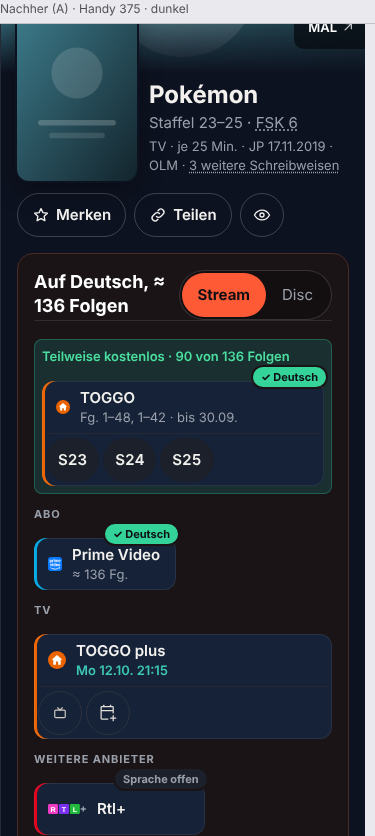
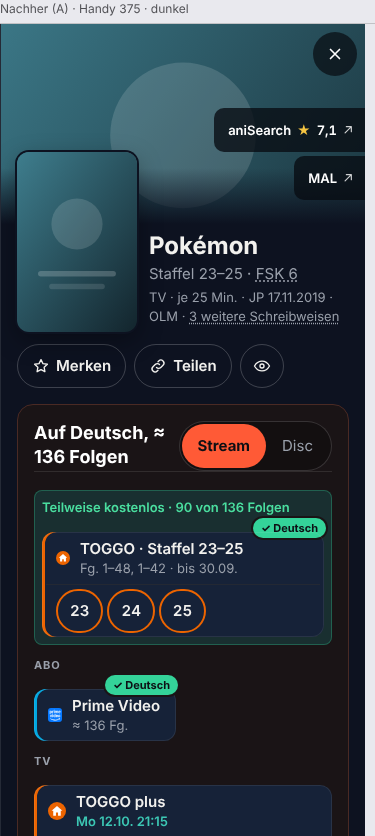
feat(panel): TOGGO-Staffelknöpfe – je Staffel ein Absprung bei gebündelten Titeln (#4889)
* feat(buehne): TOGGO-Mockup – Kostenlos, „TOGGO · Staffel 1–5“, Zahlenknöpfe mit Rahmen in Anbieterfarbe

Fall pokemon-horizonte neu eingefroren: TOGGO war dort noch als Kauf geführt (Datenstand 27.10.), heute kostenlos.

* feat(panel): TOGGO-Staffelknöpfe – je Staffel ein Absprung bei gebündelten Titeln

Trägt tg der Folgenliste mindestens zwei verschiedene TOGGO-Adressen, ersetzt das Panel die TOGGO-Pille durch eine Fläche „TOGGO · Staffel 1–5“ mit je einem Zahlenknopf (mindestens 44 px, Rahmen in der Anbieterfarbe, neuer Tab). Die Pille bleibt in ihrer Zugangsgruppe. Nachbau-Teile des Mockups toggo-pillen entfallen; Variante A zeigt die echte Komponente (F158).

* fix(panel): TOGGO-Staffelknöpfe nachgebessert – Innenabstand, Übersetzer ohne Cast, Test auf rel und Anbieterfarbe

Claude-Session: https://claude.ai/code/session_01Bx77zqb8a4JAkqo7qPTJPt

* fix(pruefung): TOGGO-Staffelknopf-Adresse in ERLAUBT von check-beleg-href

---------

diff --git a/tools/buehne-toggo-pillen.test.ts b/tools/buehne-toggo-pillen.test.ts
@@ -1,11 +1,15 @@
 /**
- * Test der Absprünge des Mockups `toggo-pillen` (`web/buehne/mockups/toggo-pillen-liste.ts`) an den echten, eingefrorenen Fällen der Bühne:
- * Pokémon (Staffel 1–5) → fünf Seiten, Pokémon Reisen (Staffel 23–25) → drei; führen alle Staffeln auf dieselbe Adresse, bleibt es bei einer Pille.
+ * Test der Staffelknöpfe an TOGGO-Pillen (`web/src/lib/staffel-ziele.ts`, `web/src/components/detail/staffel-knoepfe.tsx`) an den echten, eingefrorenen Fällen der Bühne:
+ * Pokémon (Staffel 1–5) → fünf Knöpfe, Pokémon Reisen (Staffel 23–25) → drei; führen alle Staffeln auf dieselbe Adresse, bleibt es bei einer Pille.
  */
 import assert from 'node:assert/strict'
 import { readFileSync } from 'node:fs'
 import { fileURLToPath } from 'node:url'
-import { staffelZiele } from '../web/buehne/mockups/toggo-pillen-liste.ts'
+import { createElement } from 'react'
+import { renderToStaticMarkup } from 'react-dom/server'
+import { staffelSpanne, staffelZiele } from '../web/src/lib/staffel-ziele.ts'
+import { mitStaffelKnoepfen } from '../web/src/components/detail/staffel-knoepfe.tsx'
+import { Pille } from '../web/src/components/detail/pille.tsx'
 import { mockupMit } from '../web/buehne/register.ts'
 
 const datei = fileURLToPath(new URL('../web/buehne/faelle.json', import.meta.url))
@@ -13,9 +17,12 @@ const faelle = JSON.parse(readFileSync(datei, 'utf8')).faelle as Record<string, 
 const folgen = faelle['pokemon-horizonte']!.folgen
 
 const sammel = staffelZiele(folgen['483']!.tg)!
-assert.deepEqual(sammel.map((z) => z.label), ['S1', 'S2', 'S3', 'S4', 'S5'])
+assert.deepEqual(sammel.map((z) => z.nummer), ['1', '2', '3', '4', '5'])
 assert.deepEqual(sammel.map((z) => z.url.split('/').pop()), ['pokemon-indigo-liga', 'pokemon-orange-liga', 'pokemon-die-johto-reisen', 'pokemon-die-johto-liga-champions', 'pokemon-master-quest'])
-assert.deepEqual(staffelZiele(folgen['10852']!.tg)!.map((z) => z.label), ['S23', 'S24', 'S25'])
+assert.deepEqual(staffelSpanne(sammel), { von: 1, bis: 5 })
+const reisen = staffelZiele(folgen['10852']!.tg)!
+assert.deepEqual(reisen.map((z) => z.nummer), ['23', '24', '25'])
+assert.deepEqual(staffelSpanne(reisen), { von: 23, bis: 25 })
 
 // Gegenfall: alle Staffeln führen auf dieselbe Adresse (wie bei Netflix: ein Titel, eine Adresse) → nicht aufteilen; ebenso eine Staffel und keine Angabe.
 const eine = 'https://www.toggo.de/pokemon/serien/pokemon-horizonte-die-serie-vse292'
@@ -26,11 +33,34 @@ assert.equal(staffelZiele(folgen['14838']!.tg), undefined)
 
 // Teilen sich Staffeln eine Adresse, steht eine Beschriftung für beide; Reihenfolge nach Staffelnummer auch bei umgekehrter Eingabe.
 const gemischt = staffelZiele([[16, 'https://x.invalid/b'], [15, 'https://x.invalid/a'], [16, 'https://x.invalid/a']])!
-assert.deepEqual(gemischt.map((z) => [z.label, z.url]), [['S15–16', 'https://x.invalid/a'], ['S16', 'https://x.invalid/b']])
+assert.deepEqual(gemischt.map((z) => [z.nummer, z.url]), [['15–16', 'https://x.invalid/a'], ['16', 'https://x.invalid/b']])
+assert.deepEqual(staffelSpanne(gemischt), { von: 15, bis: 16 })
 
-// Das Mockup ist angemeldet, zwei Varianten, beide Fälle gibt es.
+// Die Pille: nur die TOGGO-Pille wird zur Knopffläche (gleicher key), alles andere bleibt dieselbe Instanz.
+const toggo = createElement(Pille, { key: 'sw-TOGGO-https://x', name: 'TOGGO', farbe: '#ff0066', url: 'https://www.toggo.de/pokemon' })
+const netflix = createElement(Pille, { key: 'sw-Netflix-https://n', name: 'Netflix', url: 'https://www.netflix.com/x' })
+assert.equal(mitStaffelKnoepfen([toggo, netflix], undefined)[0], toggo)
+const neu = mitStaffelKnoepfen([toggo, netflix], sammel)
+assert.equal(neu[1], netflix)
+assert.equal((neu[0] as { key: string }).key, 'sw-TOGGO-https://x')
+const html = renderToStaticMarkup(createElement('div', null, neu))
+assert.match(html, /TOGGO · Staffel 1–5/)
+assert.equal((html.match(/min-h-11/g) ?? []).length, 5)
+assert.match(html, /aria-label="TOGGO, Staffel 3"/)
+assert.match(html, /href="https:\/\/www\.toggo\.de\/pokemon\/serien\/pokemon-die-johto-reisen"[^>]*target="_blank"/)
+assert.doesNotMatch(html, /href="https:\/\/www\.toggo\.de\/pokemon"/)
+// Jeder der fünf Knöpfe: Fremdlink ohne Referrer/Opener, Rahmen in der Anbieterfarbe (der Pille).
+const knoepfe = html.match(/<a [^>]*min-h-11[^>]*>/g) ?? []
+assert.equal(knoepfe.length, 5)
+for (const k of knoepfe) {
+  assert.match(k, /rel="noreferrer noopener"/)
+  assert.match(k, /style="[^"]*border-color:\s*#ff0066/)
+}
+assert.match(renderToStaticMarkup(createElement('div', null, mitStaffelKnoepfen([toggo], gemischt))), /aria-label="TOGGO, Staffel 15–16"/)
+
+// Das Mockup ist angemeldet, eine Variante (A, entschieden F158), beide Fälle gibt es.
 await import('../web/buehne/mockups/toggo-pillen.tsx')
 const m = mockupMit('toggo-pillen')!
-assert.deepEqual(Object.keys(m.varianten), ['A', 'B'])
+assert.deepEqual(Object.keys(m.varianten), ['A'])
 for (const f of m.faelle) assert.ok(f === 'pokemon-sammeltitel' || f === 'pokemon-reisen')
 console.log('buehne-toggo-pillen: ok')

diff --git a/web/buehne/mockups/toggo-pillen.tsx b/web/buehne/mockups/toggo-pillen.tsx
@@ -1,20 +1,15 @@
 import { mockup } from '../register.ts'
-import { KastenMitTitel, toggoKastenPillen } from './toggo-pillen-teile.tsx'
 
-/** Beide Varianten: der Kasten trägt die Titelkennung, die TOGGO-Pille wird je Staffelseite aufgeteilt (nur bei mindestens zwei verschiedenen Adressen). */
+/** Entschieden (F158, 24.11.2026): Variante A. Seit dem Bau ist sie die echte Komponente (`staffel-knoepfe.tsx`), das Mockup zeigt sie ohne Ersatz und dient als Bildvergleich. */
 mockup({
   name: 'toggo-pillen',
-  titel: 'Gebündelte Staffeln: eine TOGGO-Pille, ein Absprung je Staffel',
+  titel: 'Gebündelte Staffeln: eine TOGGO-Fläche, ein Absprung je Staffel',
   ausschnitt: 'detailpanel',
   faelle: ['pokemon-sammeltitel', 'pokemon-reisen'],
   varianten: {
     A: {
-      ersatz: { AntwortKasten: KastenMitTitel, KastenPillen: toggoKastenPillen('A') },
-      notiz: 'Eine TOGGO-Pille bleibt, überschrieben „TOGGO · Staffel 1–5“ (der Bereich, den dieser Anbieter führt), darunter in ihrer Fläche je Staffel ein Knopf nur mit der Zahl (1 bis 5, Rahmen in der Anbieterfarbe, mindestens 44 px) mit der Seite dieser Staffel bei TOGGO. Der Sprachhinweis steht einmal. Netflix, Prime Video und RTL+ führen mit einer Adresse auf den ganzen Titel: eine Pille wie heute. Pokémon (Staffel 1–5): fünf Knöpfe; Pokémon Reisen (Staffel 23–25): drei. Die Adressen sind die der Folgenliste (`tg`), keine ergänzt.',
-    },
-    B: {
-      ersatz: { AntwortKasten: KastenMitTitel, KastenPillen: toggoKastenPillen('B') },
-      notiz: 'Je Staffel eine eigene TOGGO-Pille („Staffel 1“ …), die direkt auf die Seite der Staffel führt; der Sprachhinweis nur an der ersten; die Folgenangabe der einen Pille („Fg. 1–48 · bis 30.09.“) entfällt, an ihrer Stelle steht die Staffel. Mehr Fläche (am Handy zwei Pillen je Zeile), dafür ein Tipp ohne Umweg. Netflix, Prime Video und RTL+ bleiben eine Pille, weil alle Staffeln auf dieselbe Adresse führen.',
+      ersatz: {},
+      notiz: 'In der Zugangsgruppe „Kostenlos“ steht eine TOGGO-Fläche „TOGGO · Staffel 1–5“, darin je Staffel ein Knopf mit der Zahl (mindestens 44 px, Rahmen in der Anbieterfarbe) und der Seite dieser Staffel bei TOGGO. Netflix, Prime Video und RTL+ führen mit einer Adresse auf den ganzen Titel: eine Pille wie bisher. Pokémon (Staffel 1–5): fünf Knöpfe; Pokémon Reisen (Staffel 23–25): drei. Die Adressen sind die der Folgenliste (`tg`), keine ergänzt.',
     },
   },
 })

diff --git a/web/src/components/detail/staffel-knoepfe.tsx b/web/src/components/detail/staffel-knoepfe.tsx
@@ -1,0 +1,41 @@
+import { isValidElement, type ComponentProps, type ReactElement, type ReactNode } from 'react'
+import { staffelSpanne, type StaffelZiel } from '../../lib/staffel-ziele.ts'
+import { Pille } from './pille.tsx'
+import { useLang, type Translate } from '../../lib/i18n.tsx'
+
+type PilleEigenschaften = ComponentProps<typeof Pille>
+
+const KNOPF = 'inline-flex min-h-11 min-w-11 items-center justify-center rounded-full border-2 px-3 text-t3 font-semibold tabular-nums text-ak-text transition hover:bg-ak-pille-hover'
+
+const staffelText = (t: Translate, n: string | number) => t('detail.staffelNummer', { n })
+
+/** Eine TOGGO-Fläche statt einer Pille: Überschrift „TOGGO · Staffel 1–5“, darin je Adresse ein Zahlenknopf (mindestens 44 px, Rahmen in der Anbieterfarbe). */
+export function PilleMitKnoepfen({ eig, ziele }: { eig: PilleEigenschaften; ziele: StaffelZiel[] }) {
+  const { t } = useLang()
+  const { von, bis } = staffelSpanne(ziele)
+  const bereich = von === bis ? staffelText(t, von) : t('detail.staffelBereich', { von, bis })
+  return (
+    <Pille
+      {...eig}
+      name={`${String(eig.name)} · ${bereich}`}
+      url={undefined}
+      fuss={
+        <div role="group" aria-label={`${String(eig.name)}, ${bereich}`} className="flex flex-wrap gap-1 pl-2.5">
+          {ziele.map((z) => (
+            <a key={z.url} href={z.url} target="_blank" rel="noreferrer noopener" aria-label={`${String(eig.name)}, ${staffelText(t, z.nummer)}`} className={KNOPF} style={{ borderColor: eig.farbe }}>
+              {z.nummer}
+            </a>
+          ))}
+        </div>
+      }
+    />
+  )
+}
+
+const istToggoWeg = (n: ReactNode): n is ReactElement<PilleEigenschaften> => isValidElement(n) && String(n.key).startsWith('sw-TOGGO-')
+
+/** Ersetzt die TOGGO-Pille der Wege durch die Knopffläche (mit demselben `key`: die Zugangsgruppe hängt daran); ohne Staffelseiten bleibt alles wie es ist. */
+export function mitStaffelKnoepfen(pillen: ReactNode[], ziele: StaffelZiel[] | undefined): ReactNode[] {
+  if (!ziele) return pillen
+  return pillen.map((n) => (istToggoWeg(n) ? <PilleMitKnoepfen key={n.key} eig={n.props} ziele={ziele} /> : n))
+}

diff --git a/web/src/components/detail/folgen-bereich.tsx b/web/src/components/detail/folgen-bereich.tsx
@@ -7,6 +7,7 @@ import { folgeIstDeutsch } from './stream-bereiche.ts'
 import { SERIENBELEG_HINWEIS, serienbelegOhneFolgenbeleg } from '@shared/folgen-flagge.ts'
 import { staffelAbschnitte, staffelZeile, type StaffelZeile } from './folgen-staffeln.ts'
 import type { FolgenZaehlung } from './antwort-regeln.ts'
+import { staffelZiele, type StaffelZiel } from '../../lib/staffel-ziele.ts'
 
 /**
  * **Die Folgenliste im Antwortkasten** (Daniel, 04.10.2026): Ein Pfeil klappt sie auf, der Kasten wächst mit,
@@ -26,6 +27,8 @@ interface Liste {
   h?: [number, string][]
   /** Deutsche Staffelgrenzen (`folgen-staffeln.ts`): Reiter je Staffel statt Paketen. */
   s?: StaffelZeile[]
+  /** TOGGO-Seite je Staffel: `[Staffelnummer, Adresse]`. */
+  tg?: [number, string][]
 }
 
 const PAKET = 50
@@ -65,6 +68,23 @@ export function useStaffelGrenzen(titleId: number): StaffelZeile[] | undefined {
     }
   }, [titleId])
   return s
+}
+
+/** Die TOGGO-Seiten je Staffel (`tg` der Folgenliste), solange sie verschieden sind; ohne Liste oder bei einer Adresse nichts. */
+export function useStaffelZiele(titleId: number): StaffelZiel[] | undefined {
+  const [ziele, setZiele] = useState<StaffelZiel[]>()
+  useEffect(() => {
+    setZiele(undefined)
+    let aktiv = true
+    void holeVerzeichnis()
+      .then((v) => (v.has(titleId) ? holeListe(titleId) : null))
+      .then((l) => aktiv && setZiele(l ? staffelZiele(l.tg) : undefined))
+      .catch(() => aktiv && setZiele(undefined))
+    return () => {
+      aktiv = false
+    }
+  }, [titleId])
+  return ziele
 }
 
 let zaehlungen: Promise<Record<string, FolgenZaehlung>> | undefined

diff --git a/web/src/components/detail/antwort-kasten-zustand.tsx b/web/src/components/detail/antwort-kasten-zustand.tsx
@@ -1,6 +1,7 @@
 import { type ReactNode, useState } from 'react'
 import { ankuendigungOhneTermin } from '@shared/ankuendigung.ts'
-import { useKopfZahlen } from './folgen-bereich.tsx'
+import { useKopfZahlen, useStaffelZiele } from './folgen-bereich.tsx'
+import { mitStaffelKnoepfen } from './staffel-knoepfe.tsx'
 import { gruppeVon as gruppeVonPille, sichtbareStreamPillen } from './stream-pillen.ts'
 import { erstausgabeAlsNeuigkeit } from './antwort-regeln.ts'
 import { abstandImSatz } from '../../lib/abstand.ts'
@@ -24,6 +25,7 @@ export function useKastenZustand(p: Required<Pick<AntwortKastenProps, 'stream' |
     kostet keine Höhe mehr.
   */
   const [zeigeDisc, setZeigeDisc] = useState(discZuerst); const { folgenZahl, staffeln } = useKopfZahlen(title.id)
+  const staffelZiele = useStaffelZiele(title.id)
   /*
     **Wo noch nichts erschienen ist, gibt es nichts zu sehen.**
 
@@ -41,7 +43,7 @@ export function useKastenZustand(p: Required<Pick<AntwortKastenProps, 'stream' |
   const beides = streamPillen.length > 0 && disc.length > 0
   /* Der Umschalter zeigt nur Seiten mit Pillen; eine einzelne bleibt als Etikett (Kaufpille = „Disc"). */
   const aktivDisc = beides ? zeigeDisc : streamPillen.length === 0
-  const pillen = aktivDisc ? disc : streamPillen
+  const pillen = aktivDisc ? disc : mitStaffelKnoepfen(streamPillen, staffelZiele)
   const T = t as unknown as Uebersetzer
   /*
     **Kostenlos ist ein eigener Bereich** (Daniel, 19.09.2026: „trenn die bereiche, sodass es

diff --git a/web/src/lib/staffel-ziele.ts b/web/src/lib/staffel-ziele.ts
@@ -1,0 +1,28 @@
+/** Eine Staffelseite bei TOGGO: Beschriftung (`nummer`: „3“ oder „15–16“), die Staffeln dahinter und die Adresse aus `tg` der Folgenliste. */
+export interface StaffelZiel {
+  nummer: string
+  staffeln: number[]
+  url: string
+}
+
+/**
+ * Die Absprünge einer gebündelten Pille: je **verschiedener** Adresse einer (Staffeln mit derselben Adresse teilen sich eine Beschriftung).
+ * Führen alle Staffeln auf dieselbe Adresse, oder gibt es keine zwei, bleibt es bei einer Pille (`undefined`).
+ */
+export function staffelZiele(tg: [number, string][] | undefined): StaffelZiel[] | undefined {
+  const jeAdresse = new Map<string, number[]>()
+  for (const [nr, url] of tg ?? []) jeAdresse.set(url, [...(jeAdresse.get(url) ?? []), nr])
+  if (jeAdresse.size < 2) return undefined
+  return [...jeAdresse]
+    .map(([url, nummern]) => {
+      const staffeln = [...nummern].sort((a, b) => a - b)
+      return { nummer: staffeln.length > 1 ? `${staffeln[0]}–${staffeln.at(-1)}` : String(staffeln[0]), staffeln, url }
+    })
+    .sort((a, b) => a.staffeln[0]! - b.staffeln[0]!)
+}
+
+/** Erste und letzte Staffel, die der Anbieter führt: `{ von: 1, bis: 5 }`. */
+export function staffelSpanne(ziele: StaffelZiel[]): { von: number; bis: number } {
+  const alle = ziele.flatMap((z) => z.staffeln)
+  return { von: Math.min(...alle), bis: Math.max(...alle) }
+}

diff --git a/pipeline/check-beleg-href.ts b/pipeline/check-beleg-href.ts
@@ -23,6 +23,7 @@ const ERLAUBT: Record<string, Record<string, string>> = {
   'web/src/components/news-abgeloest.tsx': { 'm.ersetzt.quelle': 'nur nach istLink(m.ersetzt.quelle)' },
   'web/src/components/Quellenuebersicht.tsx': { 'r.url': 'aus terminQuellenJeHost: istLink-gefiltert' },
   'web/src/components/detail/abschnitte.tsx': { 'plot.quelle.url': 'aniSearch-/ANN-Handlungsseite' },
+  'web/src/components/detail/staffel-knoepfe.tsx': { 'z.url': 'tg der Folgenliste: TOGGO-Serienseite aus Katalog/Handliste (pipeline/bau/13-1-toggo-seiten.ts), keine API-Adresse' },
   'web/src/components/detail/antwort-kasten-teile.tsx': { q: 'Quellenliste einer Antwort: Wiki-/Katalogseiten' },
   'web/src/components/detail/termin-offen-karte.tsx': { url: 'Anbieter-Adresse des Titels (Weg in streams), keine Beleg-Quelle', quelle: 'Artikel der Ankündigung aus data/ankuendigungen.yaml (https-Seite)' },
   'web/src/components/detail/flaggen.tsx': { 'verweis.ziel': 'Anbieterseite (Stream, Shop), aus den Wegen des Titels' },
